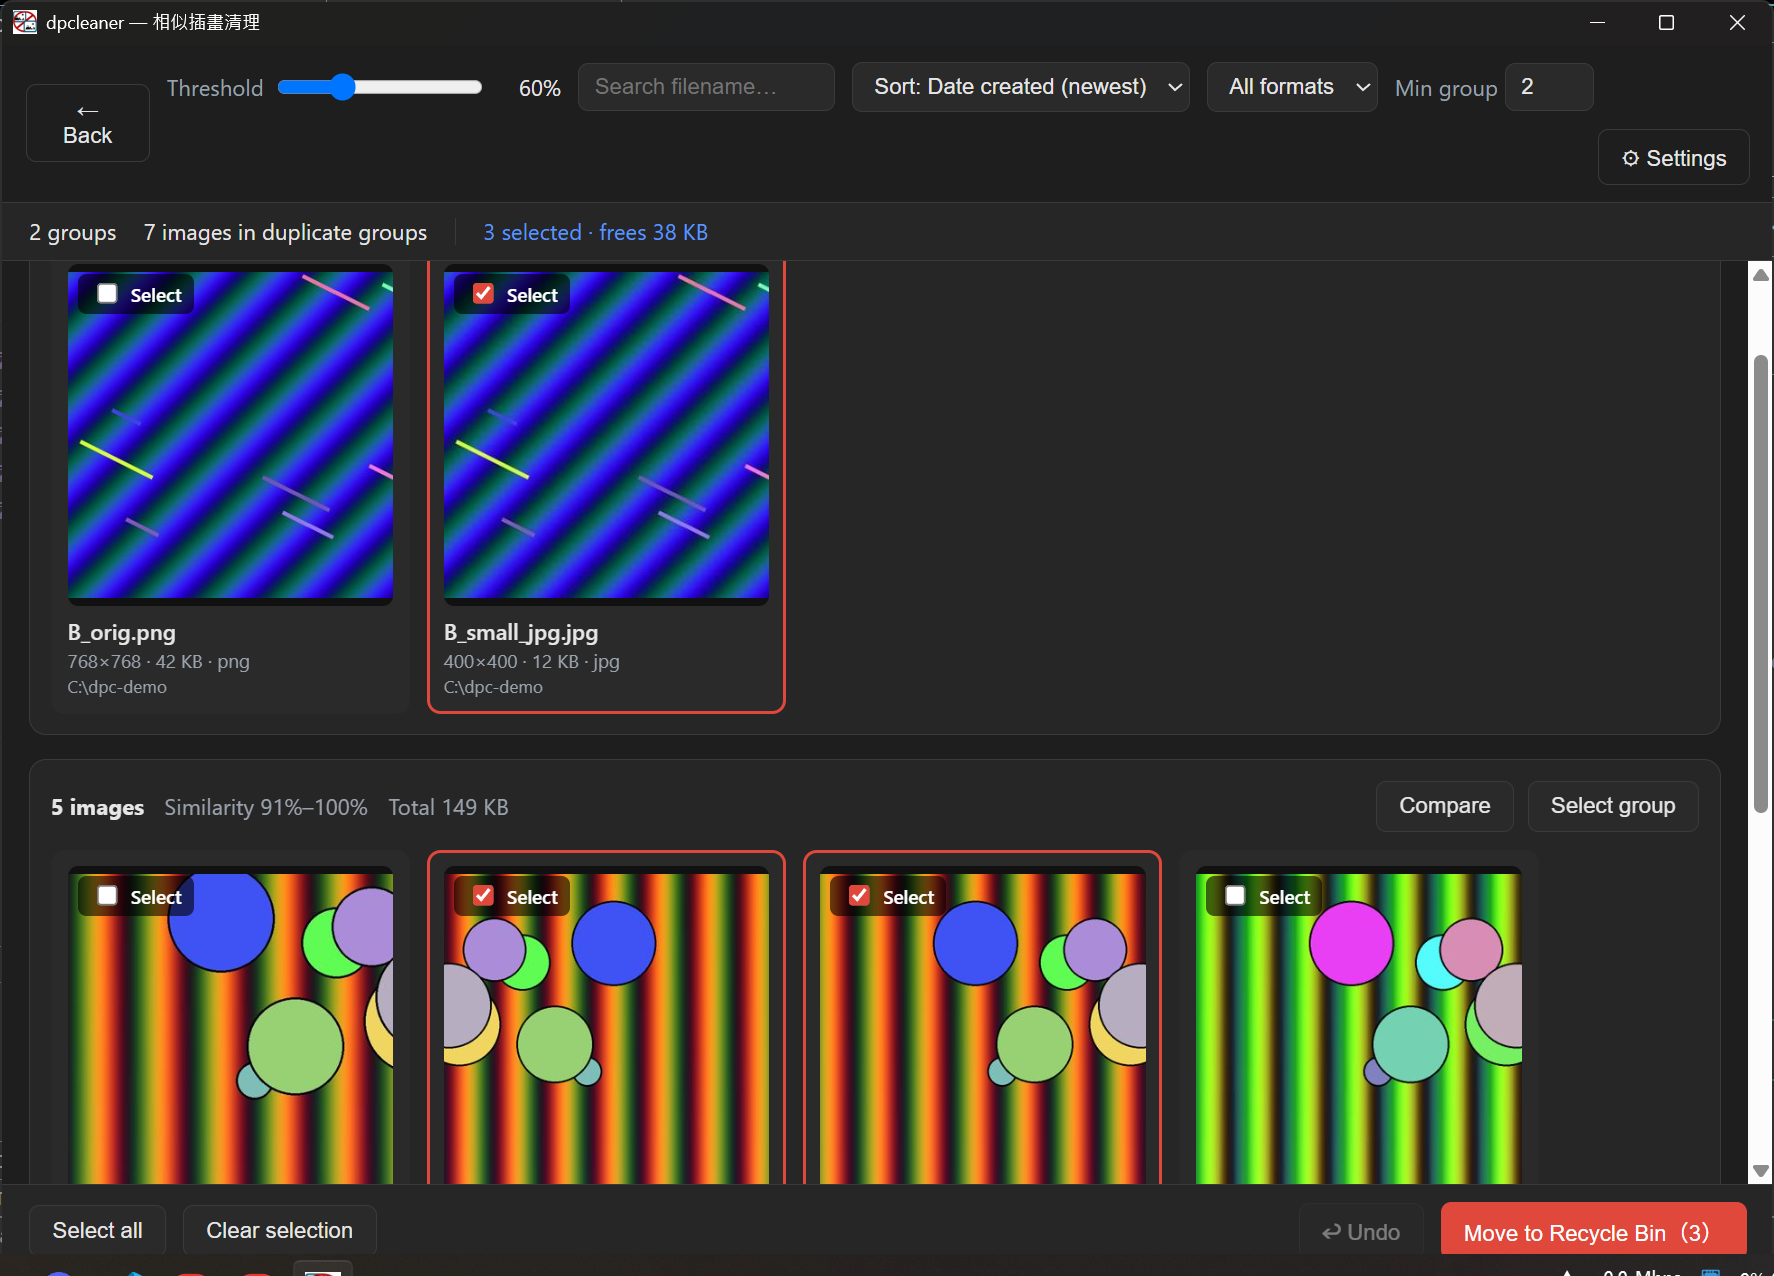
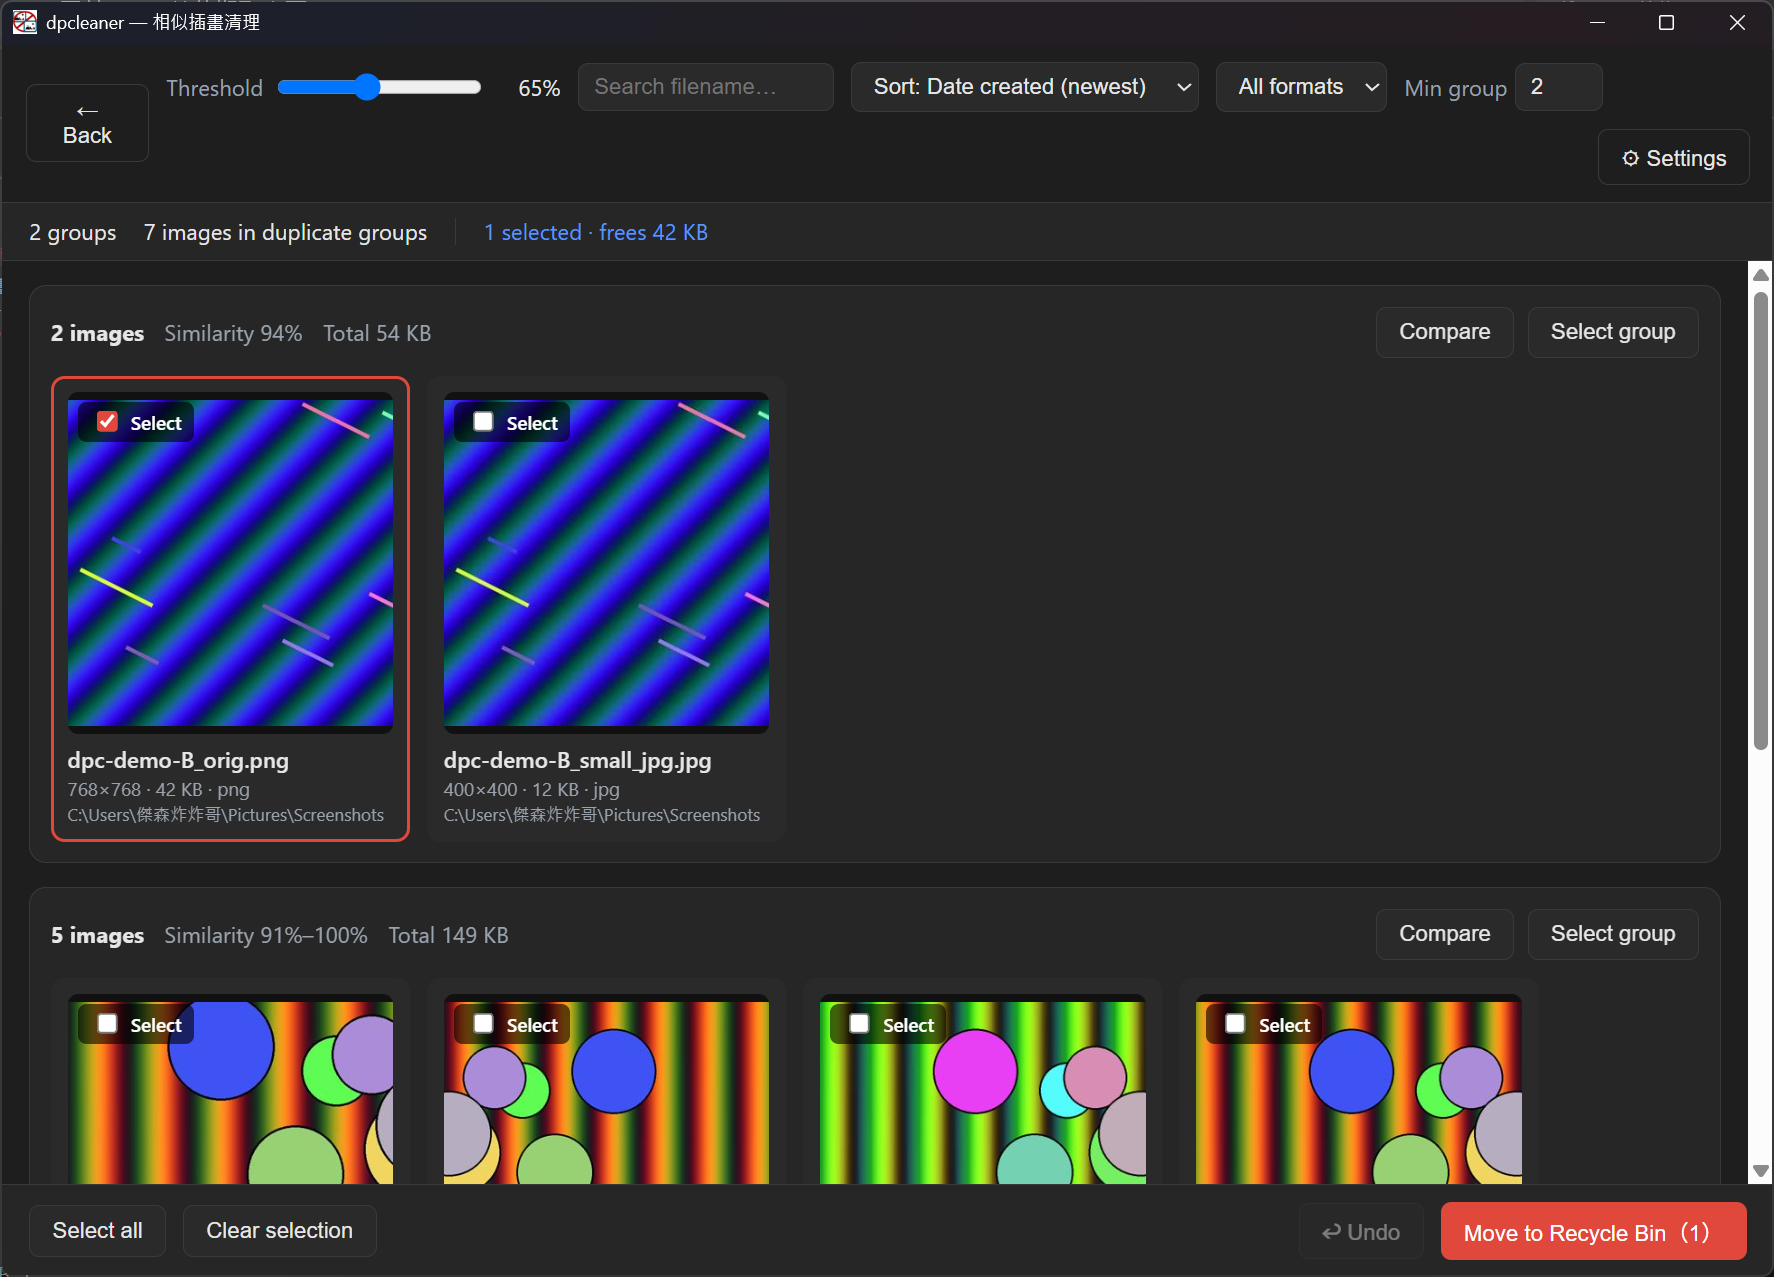
Reshoot the screenshots, and stop claiming releases are manual
All five were from Jul 21 and had drifted: the scan screen has gained a
"Back" button since, and the results toolbar a second time-sort option.

They're shot against the synthetic battery from backend/tests/synthetic.py
rather than a real gallery -- abstract patterns, so a reader can tell they
are fixtures, but every relationship on screen is genuine. One artwork's
five variants (mirrored, recoloured, cropped, rescaled, recompressed) land
in one group at 91-100%; a second pair at 94%; the unique image correctly
stays out of both, which is why the header reads 7 of 8 images.

Also: the Download note still said there was no release pipeline and the
maintainer uploaded the zip by hand. That stopped being true when
release.yml landed -- tagging builds and publishes it.

diff --git a/README.md b/README.md
@@ -33,7 +33,7 @@ Nothing is written outside the extracted folder. Settings, the model cache and t
 
 **Requirements:** Windows 10 or 11 (64-bit), plus WebView2 — which Windows 11 includes and Windows 10 gets with Microsoft Edge, so practically every machine already has it. The executable is **not code-signed**, so Windows SmartScreen will warn on first run ("Windows protected your PC") — click **More info → Run anyway**. Signing costs money this project doesn't have.
 
-> There's no automated release pipeline yet; the zip is built locally by the maintainer (see [Building the portable zip](#building-the-portable-zip)) and uploaded manually.
+> Releases are built by GitHub Actions from a version tag — the zip you download is the one CI produced, and its SHA-256 is printed in the release notes. Building it yourself is still documented under [Building the portable zip](#building-the-portable-zip).
 
 ## How it works
 
